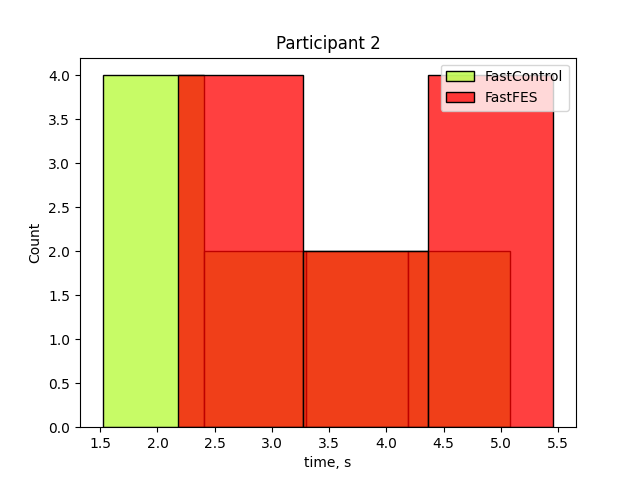
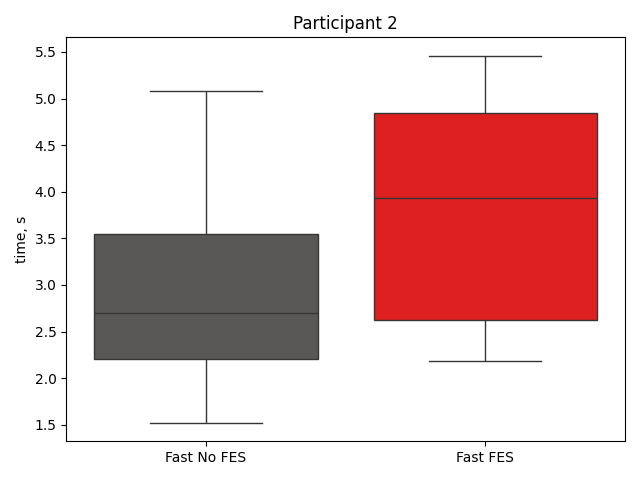
Renamed, boxlplots

diff --git a/DataAnalysis.py b/DataAnalysis.py
@@ -1,16 +1,11 @@
 import statistics
-
-import statsmodels.api as sm
-from statsmodels.formula.api import ols
 from scipy.stats import kruskal, wilcoxon
-
 import os
 import matplotlib.pyplot as plt
-
 import seaborn as sns
-
 import pandas as pd
 pd.set_option('display.max_columns', None)
+MAIN_CMAP = ["#5A5856", "#FF0000", "#FA7B11", "#B0FB35"]
 
 
 # In this file we are collecting all the data  from the participant folder, read  it in, crop it  to the first  10
@@ -63,7 +58,6 @@ def name_encode(name):
     if name == "Amir":
         return "Participant 1"
     elif name == "Elizaveta" or name == "Eliza":
-
         return "Participant 2"
     elif name == "Oscar":
         return "Participant 3"
@@ -71,24 +65,23 @@ def name_encode(name):
         return "Participant 4"
     else: return None
 
+def rename_control(word):
+    if word == "Control":
+        return "No FES"
+    else: return word
+
 def plot_all_trials(data, name):
-    #cmap  =  plt.get_cmap('turbo', 4)
-    #hex_codes = [matplotlib.colors.rgb2hex(cmap(i)) for i in range(cmap.N)]
     plt.figure()
-    for condition in data:
-        if condition[2] == "FES" and condition[1] == "Fast": col = '#FF0000' #hex_codes[0]
-        elif condition[2] == "FES" and condition[1] != "Fast": col = '#FD9D00' #hex_codes[1]
-        elif condition[2] != "FES" and condition[1] == "Fast": col = "#B5FA33" #hex_codes[2]
-        else:  col = "#32342E" # hex_codes[3]
-        plt.title(name_encode(condition[0]))
-        plt.xlabel("time, s")
-        sns.histplot(condition[3],   label = condition[1] + condition[2], color=col, binwidth=1)  #bins =  range(0, int(max(condition[3])) + 1),
-        plt.legend()
+    plt.title(name_encode(data[0][0]))
+    data_dict = {f"{condition[1]} {rename_control(condition[2])}":condition[3] for condition in data}
+    plt.ylabel('time, s')
+    sns.boxplot(data_dict, palette=MAIN_CMAP)
+    plt.tight_layout()
     plt.savefig(name)
 
-
+# this takes all the data that fullfil a specific condition (i.e SLow group) and plots all of them
 def plot_keyword(data, name, keyword, index):
-    new_data  =  [x for x in data if x[index]==keyword]
+    new_data  =  [x for x in data if x[index] == keyword]
     plot_all_trials(new_data, name)
 
 
@@ -99,22 +92,24 @@ def plot_all(name):
     plot_keyword(participant_data_list, f"Data/Plots/{name}_FES", "FES", 2)
     plot_keyword(participant_data_list, f"Data/Plots/{name}_Control", "Control", 2)
 
-def try_z(res):
-    try:
-            z  = res.zstatistic
-
-    except:
-            z =  None
-    finally:
-        return z
-
-
+# This function extracts the necessary reaction times from a dataframe
 def get_specific_group(data, speed, stim):
     return data[(data['Speed'] == speed) & (data['Stimulation'] == stim)][
         'Reaction_time']
 
+# this function gets all 4 experimental groups from the dataset
+def get_all_groups(data):
+    control_slow = get_specific_group(data, speed="Slow", stim = "Control")
+    control_fast  = get_specific_group(data, speed="Fast", stim=  "Control")
+    fes_slow = get_specific_group(data, speed="Slow", stim = "FES")
+    fes_fast  = get_specific_group(data, speed="Fast", stim = "FES")
+
+    return control_slow, control_fast, fes_slow, fes_fast
+
 
 if __name__ == '__main__':
+    ANALYZE_ALL_DATA = True
+    POSTHOC = True
     ANOVA = False
     KRUSKAL = True
     TTEST  = False
@@ -124,10 +119,11 @@ if __name__ == '__main__':
 
 
     for name in names:
+        # load the data from the raw version achieved in SubscriberTime.py script
+        # participant_data_list has a format of (name, speed, stimulation_mode, list_of_reaction_times)
         participant_data_list = get_participant_data(name)
-        #plot_all(name)
-
-
+        plot_all(name)
+        # make a dataframe
         df_data = {"Speed": [participant_data_list[0][1]]*10 + [participant_data_list[1][1]]*10 + [participant_data_list[2][1]]*10 + [participant_data_list[3][1]]*10,
                    "Stimulation": [participant_data_list[0][2]] * 10 + [participant_data_list[1][2]]*10 + [participant_data_list[2][
                        2]] * 10 + [participant_data_list[3][2]
@@ -142,12 +138,14 @@ if __name__ == '__main__':
         df_data  = pd.DataFrame(df_data)
         df_data.to_csv(f"{name}_data.csv")
 
+        # Calculate if there is a significant difference between all expeerimental condition for 1 participant
         if KRUSKAL:
+
             h, p = kruskal(participant_data_list[0][3], participant_data_list[1][3], participant_data_list[2][3], participant_data_list[3][3])
             print(f"For {name}, kruskal-wallis H test shows {h} statistic, p-value  is {p}")
 
-
     print("--------------------------------------------------------------------------------")
+
     if CreateAllData:
         all_data = pd.concat([pd.read_csv("Elizaveta_data.csv"), pd.read_csv("Oscar_data.csv"),
                              pd.read_csv("Amir_data.csv"), pd.read_csv("Nic_data.csv")])
@@ -155,69 +153,60 @@ if __name__ == '__main__':
         all_data.sort_values(by = ["Speed", "Stimulation"])
         all_data.to_csv("Data/all_data.csv")
 
-    all_data = pd.read_csv("Data/all_data.csv")
-    all_fastFES = get_specific_group(all_data, speed="Fast", stim="FES")
-    all_slowFES = get_specific_group(all_data, speed="Slow", stim="FES")
-    all_fastControl  = get_specific_group(all_data, speed="Fast", stim="Control")
-    all_slowControl  = get_specific_group(all_data, speed="Slow", stim="Control")
+    if ANALYZE_ALL_DATA:
+
+        all_data = pd.read_csv("Data/all_data.csv")
+        all_slowControl, all_fastControl, all_slowFES, all_fastFES = get_all_groups(all_data)
+
+
+        # Do kruskal  on all data
+        h, p = kruskal(all_slowControl, all_fastControl, all_slowFES, all_fastFES)
+        print(f"For ALL DATA, kruskal-wallis H test shows {h} statistic, p-value  is {p}")
+        res = wilcoxon(all_fastControl, all_fastFES)
+
+        print(f"ALL DATA =  Wilcoxon result for FastControl vs FastFES: statistic = {res.statistic}, p-value = {res.pvalue}, "
+              f"median  FastControl =  {statistics.median(all_fastControl)}, "
+              f"median FastFES = {statistics.median(all_fastFES)}")
+
+        res = wilcoxon(all_slowControl, all_slowFES)
+        print(f"ALL DATA = Wilcoxon result for  SlowControl vs SlowFES: statistic = {res.statistic}, p-value = {res.pvalue}"
+              f"median SlowControl = {statistics.median(all_slowControl)},"
+              f" median SlowFES = {statistics.median(all_slowFES)}")
+
+        res = wilcoxon(all_slowControl, all_fastControl)
+        print(
+            f"ALL DATA =  Wilcoxon result for  SlowControl vs FastControl: statistic = {res.statistic}, p-value = {res.pvalue}, "
+            f"median SlowControl = {statistics.median(all_slowControl)},"
+            f" median FastControl = {statistics.median(all_fastControl)}")
+
+        res = wilcoxon(all_slowFES, all_fastFES)
+        print(
+            f"ALL DATA =  Wilcoxon result for  SlowFES vs FastFES: statistic = {res.statistic}, p-value = {res.pvalue}, "
+            f"median SlowFES = {statistics.median(all_slowFES)},"
+            f" median FastFES = {statistics.median(all_fastFES)}")
 
 
 
-    # Do kruskal  on all data
-    h, p = kruskal(all_slowControl, all_fastControl, all_slowFES, all_fastFES)
-    print(f"For ALL DATA, kruskal-wallis H test shows {h} statistic, p-value  is {p}")
-    res = wilcoxon(all_fastControl, all_fastFES)
-
-    print(f"ALL DATA =  Wilcoxon result for FastControl vs FastFES: statistic = {res.statistic}, p-value = {res.pvalue}, "
-          f"median  FastControl =  {statistics.median(all_fastControl)}, "
-          f"median FastFES = {statistics.median(all_fastFES)}")
-
-    res = wilcoxon(all_slowControl, all_slowFES)
-    print(f"ALL DATA = Wilcoxon result for  SlowControl vs SlowFES: statistic = {res.statistic}, p-value = {res.pvalue}"
-          f"median SlowControl = {statistics.median(all_slowControl)},"
-          f" median SlowFES = {statistics.median(all_slowFES)}")
-
-    res = wilcoxon(all_slowControl, all_fastControl)
-    print(
-        f"ALL DATA =  Wilcoxon result for  SlowControl vs FastControl: statistic = {res.statistic}, p-value = {res.pvalue}, "
-        f"median SlowControl = {statistics.median(all_slowControl)},"
-        f" median FastControl = {statistics.median(all_fastControl)}")
-
-
-
-    # Plot all data as a boxplot
-    plt.figure()
-    plt.title("Game-dependent reaction time")
-    sns.boxplot(data ={'Slow Control': all_slowControl, 'Slow  FES': all_slowFES, 'Fast Control': all_fastControl, 'Fast FES': all_fastFES}, palette="hot")
-    plt.ylabel("Reaction time, s")
-    plt.savefig("Data/Plots/all_data")
+        # Plot all data as a boxplot
+        plt.figure()
+        plt.title("Game-dependent reaction time")
+        sns.boxplot(data ={'Fast No FES': all_fastControl, 'Slow No FES': all_slowControl,  'Fast FES': all_fastFES, 'Slow  FES': all_slowFES}, palette=MAIN_CMAP)
+        plt.ylabel("Reaction time, s")
+        plt.savefig("Data/Plots/all_data")
 
     print("--------------------------------------------------------------------------------")
 
-
-
 # post-hoc  testing for groups that showed significance in ANOVA
-    def participantLvlPost(names):
+
+    if POSTHOC:
         for name in names:
             data = pd.read_csv(f"{name}_data.csv")
             # Filter data and select column
-            fast_control_rt = data[(data['Speed'] == 'Fast') & (data['Stimulation'] == 'Control')][
-                'Reaction_time']
-
-            fast_fes_rt = data[(data['Speed'] == 'Fast') & (data['Stimulation'] == 'FES')][
-                'Reaction_time']
-
-
-            slow_control_rt = data[(data['Speed'] == 'Slow') & (data['Stimulation'] == 'Control')][
-                'Reaction_time']
-
-            slow_fes_rt = data[(data['Speed'] == 'Slow') & (data['Stimulation'] == 'FES')][
-                'Reaction_time']
+            slow_control_rt, fast_control_rt, slow_fes_rt, fast_fes_rt = get_all_groups(data)
 
 
             if WILCOXON:
                 res  = wilcoxon(fast_control_rt, fast_fes_rt)
-
                 print(f"{name} -  Wilcoxon result for FastControl vs FastFES: statistic = {res.statistic}, p-value = {res.pvalue}, "
                       f"median  FastControl =  {statistics.median(fast_control_rt)}, "
                       f"median FastFES = {statistics.median(fast_fes_rt)}")
@@ -229,6 +218,12 @@ if __name__ == '__main__':
                 res = wilcoxon(slow_control_rt, fast_control_rt)
                 print(f"{name} -  Wilcoxon result for  SlowControl vs FastControl: statistic = {res.statistic}, p-value = {res.pvalue}, "
                       f"median SlowControl = {statistics.median(slow_control_rt)}, median FastControl = {statistics.median(fast_control_rt)}")
+
+
+                res = wilcoxon(slow_fes_rt, fast_fes_rt)
+                print(
+                    f"{name} -  Wilcoxon result for  SlowFES vs FastFES: statistic = {res.statistic}, p-value = {res.pvalue}, "
+                    f"median SlowFES = {statistics.median(slow_fes_rt)}, median FastFES = {statistics.median(fast_fes_rt)}")
 
 
 
